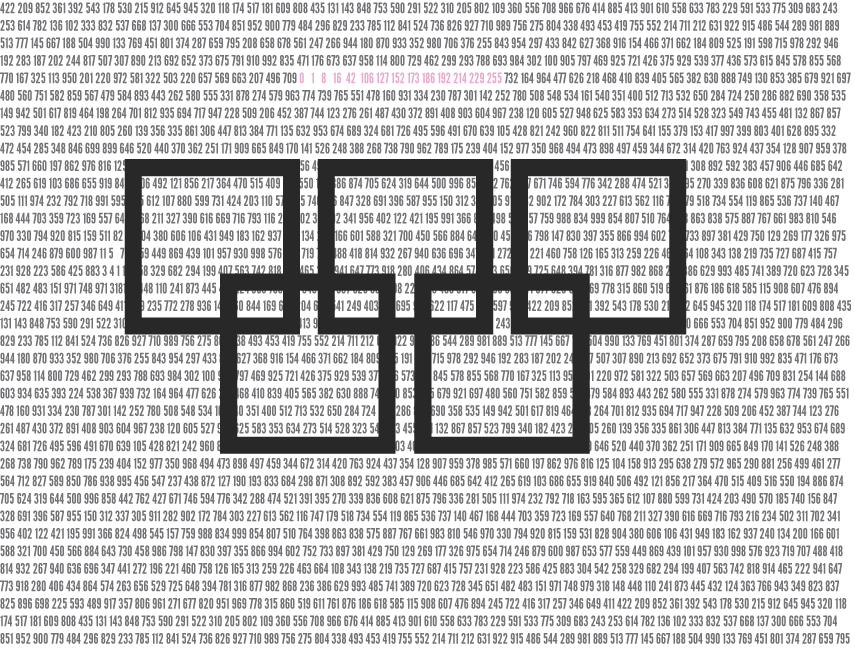
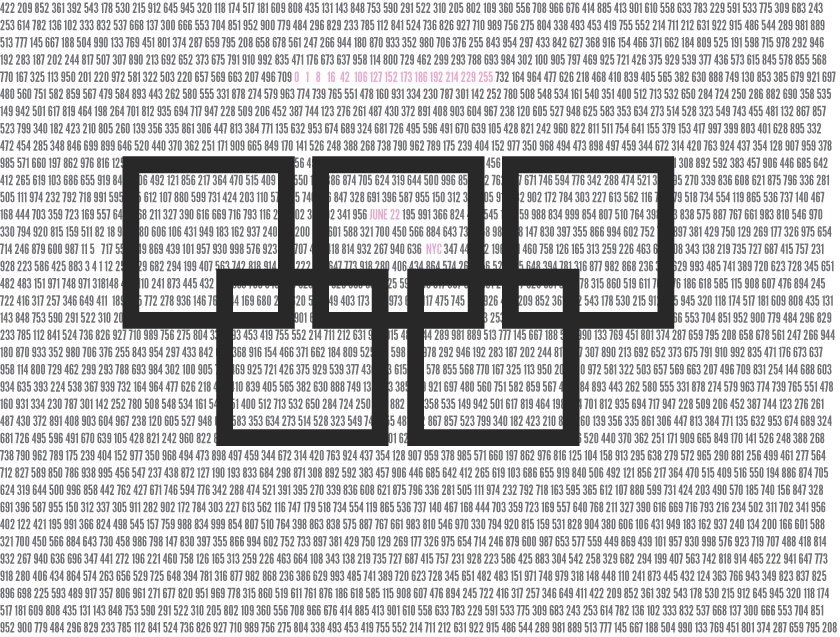
Updated readme and added dates to the landing page.

diff --git a/README.md b/README.md
@@ -1,45 +1,2 @@
-# Boilerstrap
-A blank slate for the modern web. Just add creativity.
-
-## Wait, what? Why?
-I wanted bootstrap, but with all of the HTML5 Boilerplate tweaks, Modernizr loading, js compression, plus better  coffeescript support, and control of js concatenation.
-
-I also wanted an asset organizational strcuture that better assessed the reality that nowdays we live with an uncomforatble mix of compiled and static sources files for css and javascript.
-
-Furthermore, it's nice to have support for coffeescript, less, and sass, plus easy extensibility to whatever else you want.
-
-Finally, I just wanted the peace of mind that with a single clone, I'm ready to go with a robust, clean, efficient, cross-browser, optimized, and organized blank slate.
-
-## How to Use:
-* `rake watch` will build everything and watch for new changes.
-* Always link from `bin`, put your code in `src` (to compile) and `lib` (to leave alone)
-* Use subfolders folders in `src` to specify what you want to concatenate together. Create an optional file called `ORDERING` in the folder to explicitly specify the order of concatenation.
-
-## Basic Structure & Instructions:
-* **Rakefile** - Run `rake` to just build and `rake watch` to build and watch
-* **css**
-    * **bin** - All compiled css files end up here
-    * **lib** - Not touched by Rakefile. You should include from src.
-    * **src** - All raw css, or less, or sass files. They are compiled and copied one-to-one to the css/bin directory. Use Less or Sass `@include` directives to combine multiple files together. If using raw css, use subfolders to concatenate files.
-        * *your_subfolder* - All css (ONLY) files are concatenated and put in css/bin as `subfolder.css`
-* **js**
-    * **bin** - All compiled js files. Each file has a regular and minified version.
-    * **lib** - Not touched by Rakefile. Meant for things like jQuery, or anything else you don't want compiled.
-    * **src** - All raw javascript and/or coffeescript files go here. They are compiled and copied one-to-one to the js/bin directory. Use subfolders if you want concatenation.
-        * **global** - All files put in here will be concatenated, compiled, and put in js/bin as `global.js` and `global.min.js`
-            * ORDERING - A file called `ORDERING` that lists the order of concatenation. Simply list files (just the name including extensions), one per line, in the order you want.
-        * *your_subfolder* - All files in 'your_subfolder' are concatenated, compiled, and put in js/bin as `your_subfolder.js` and `your_subfolder.min.js`
-  
-## Best Practices
-* Use the built-in @include directives of less and sass to include files from css/lib.
-* Think carefully about what you actually want to concatenate, and what you want to independently load.
-* All javascript (except modernizr itself) should be loaded with Modernizr.
-* If a couple pages (but not all) need the same javascript file, create a page-specific subfolder in the js/src/ directory for each page and sym-link to common javascript files stored in js/lib. If you need the order explicitly defined, don't forget to create an `ORDERING` file and list the files.
-* If all pages need the same javascript file, add it to the js/src/global directory so it concatenates into a single load from js/bin/global.js
-
-## Dependencies
-* `gem install watchr` - To enable code watching
-* `npm install -g uglify-js` - To minify javascript
-* `npm install -g coffee-script` - To compile coffeescript if you use any
-* `npm install -g less` - To compile LESS if you use any
-* `gem install sass` - To compile SASS if you use any
+# The Hacker Olympics
+Coming to New York, City on June 22, 2013. The Network is live.
